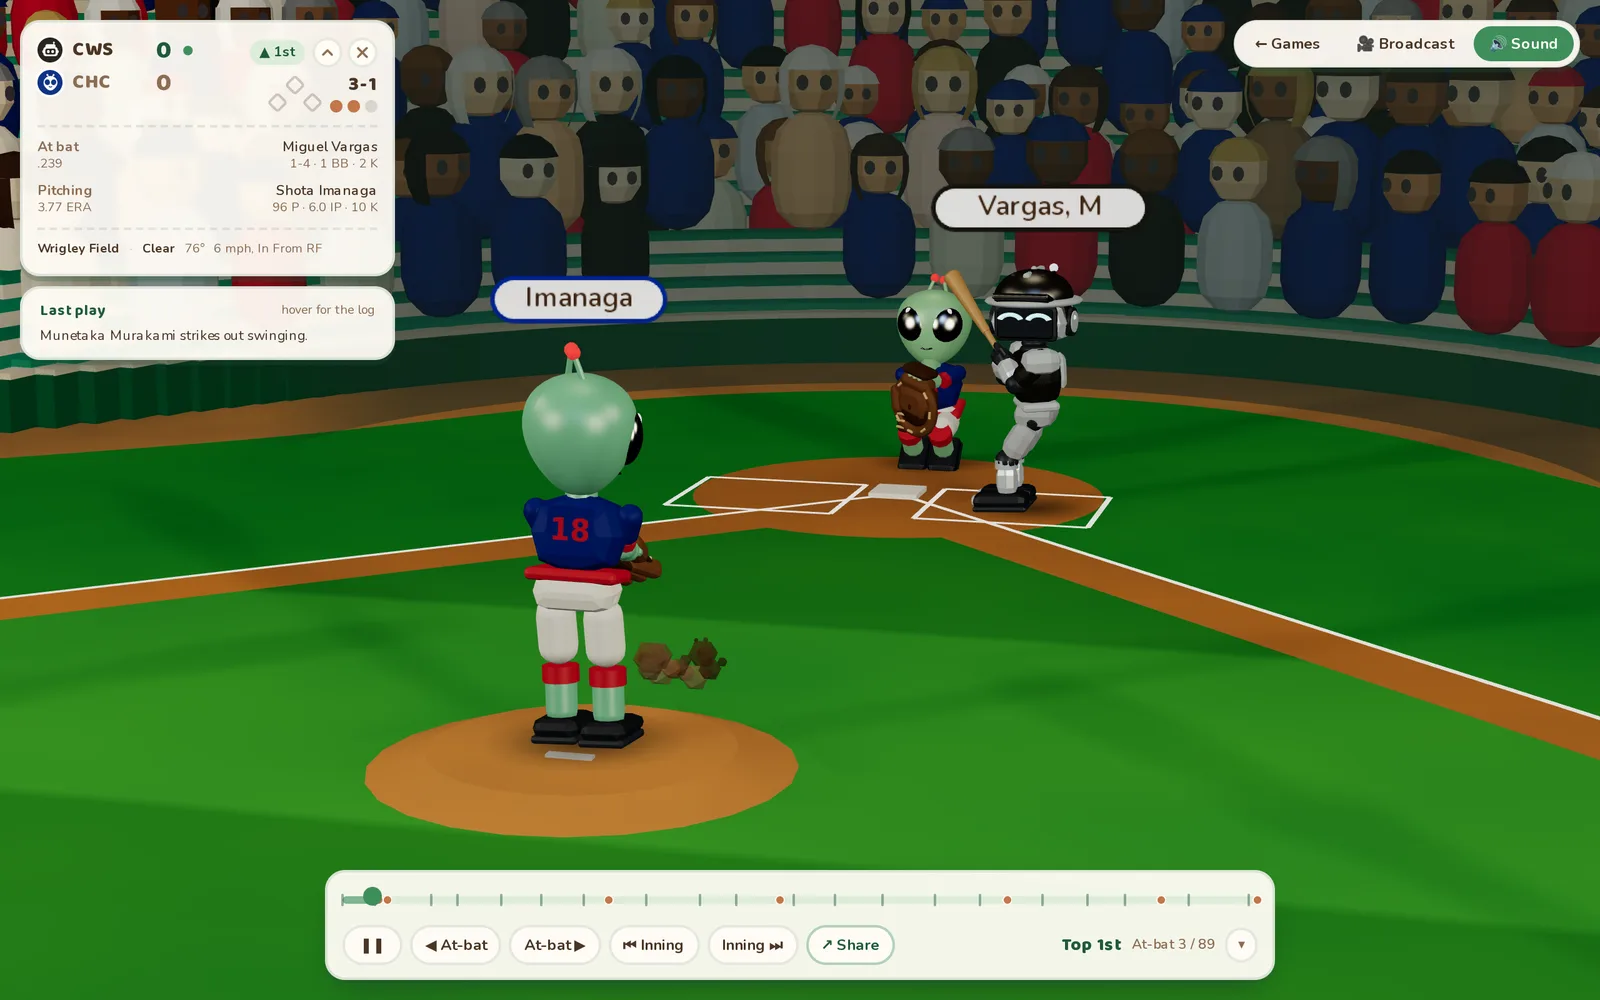
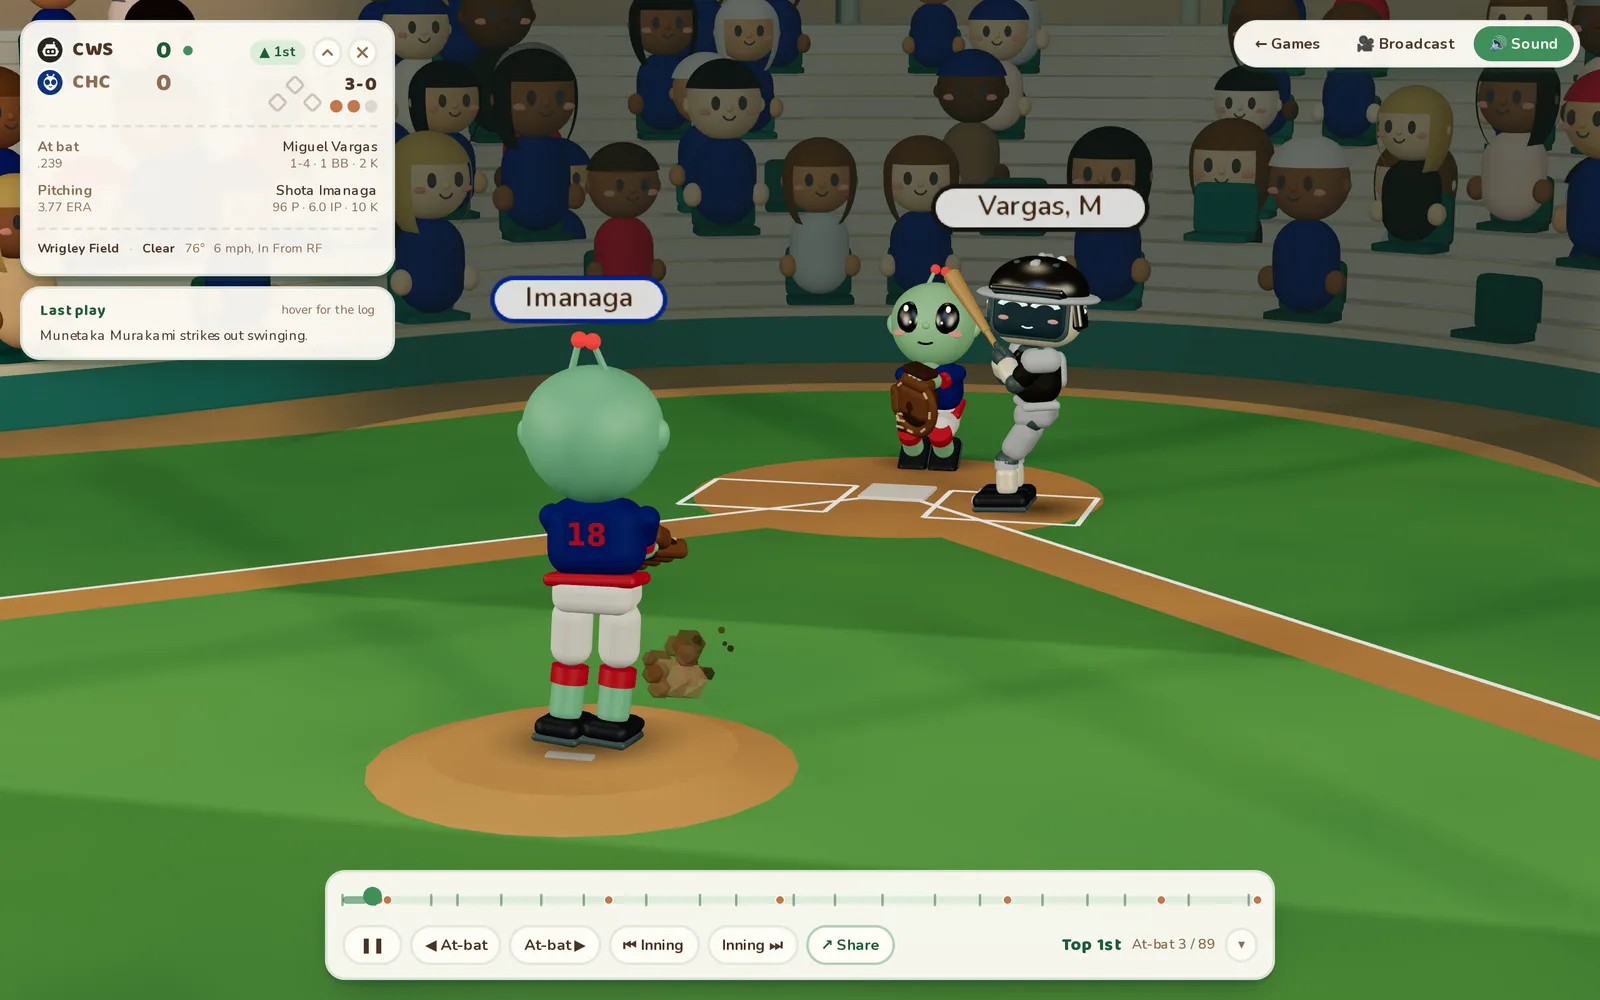
Re-shoot both screenshots against the new ballpark
The rebase brought in the graphics refresh: smooth characters with faces, the
curved decks, the village of houses and trees over the wall. Both screenshots
were taken before it and showed the old park, which is the one thing a
screenshot cannot get away with.

Same two frames as before, taken again: the hero is Pete Crow-Armstrong's
leadoff home run at Wrigley, confetti still in the air, and the About shot is
the alien battery and the robot hitter from the broadcast camera. The About alt
text says the catcher has his mitt up rather than that he is crouched, which is
what the new pose actually is.

Where the rebase had to pick a word: main renamed the park "storybook"
everywhere it used to say "low-poly", so that word stands on the share cards,
the season page and the vignette's label. The sentence on the home page, in the
metadata and on the home share card is the one that was rewritten here, and it
keeps "every pitch, hit, and play" in a "charming 3D ballpark".

Claude-Session: https://claude.ai/code/session_01EebW6XMdDhninNtaSCjXUY

diff --git a/src/app/about/page.tsx b/src/app/about/page.tsx
@@ -69,7 +69,7 @@ export default function AboutPage() {
           <div className="overflow-hidden rounded-[28px] border-2 border-grass-deep/12 bg-grass-mist lip">
             <Image
               src={closeUp}
-              alt="A close view of the ballpark: an alien pitcher in Cubs blue on the mound, his alien catcher crouched behind the plate, and a robot hitter in White Sox grey waiting on the pitch."
+              alt="A close view of the ballpark: an alien pitcher in Cubs blue on the mound, his alien catcher behind the plate with the mitt up, and a robot hitter in White Sox grey waiting on the pitch."
               placeholder="blur"
               sizes="(min-width: 640px) 42rem, 92vw"
               className="block w-full"
